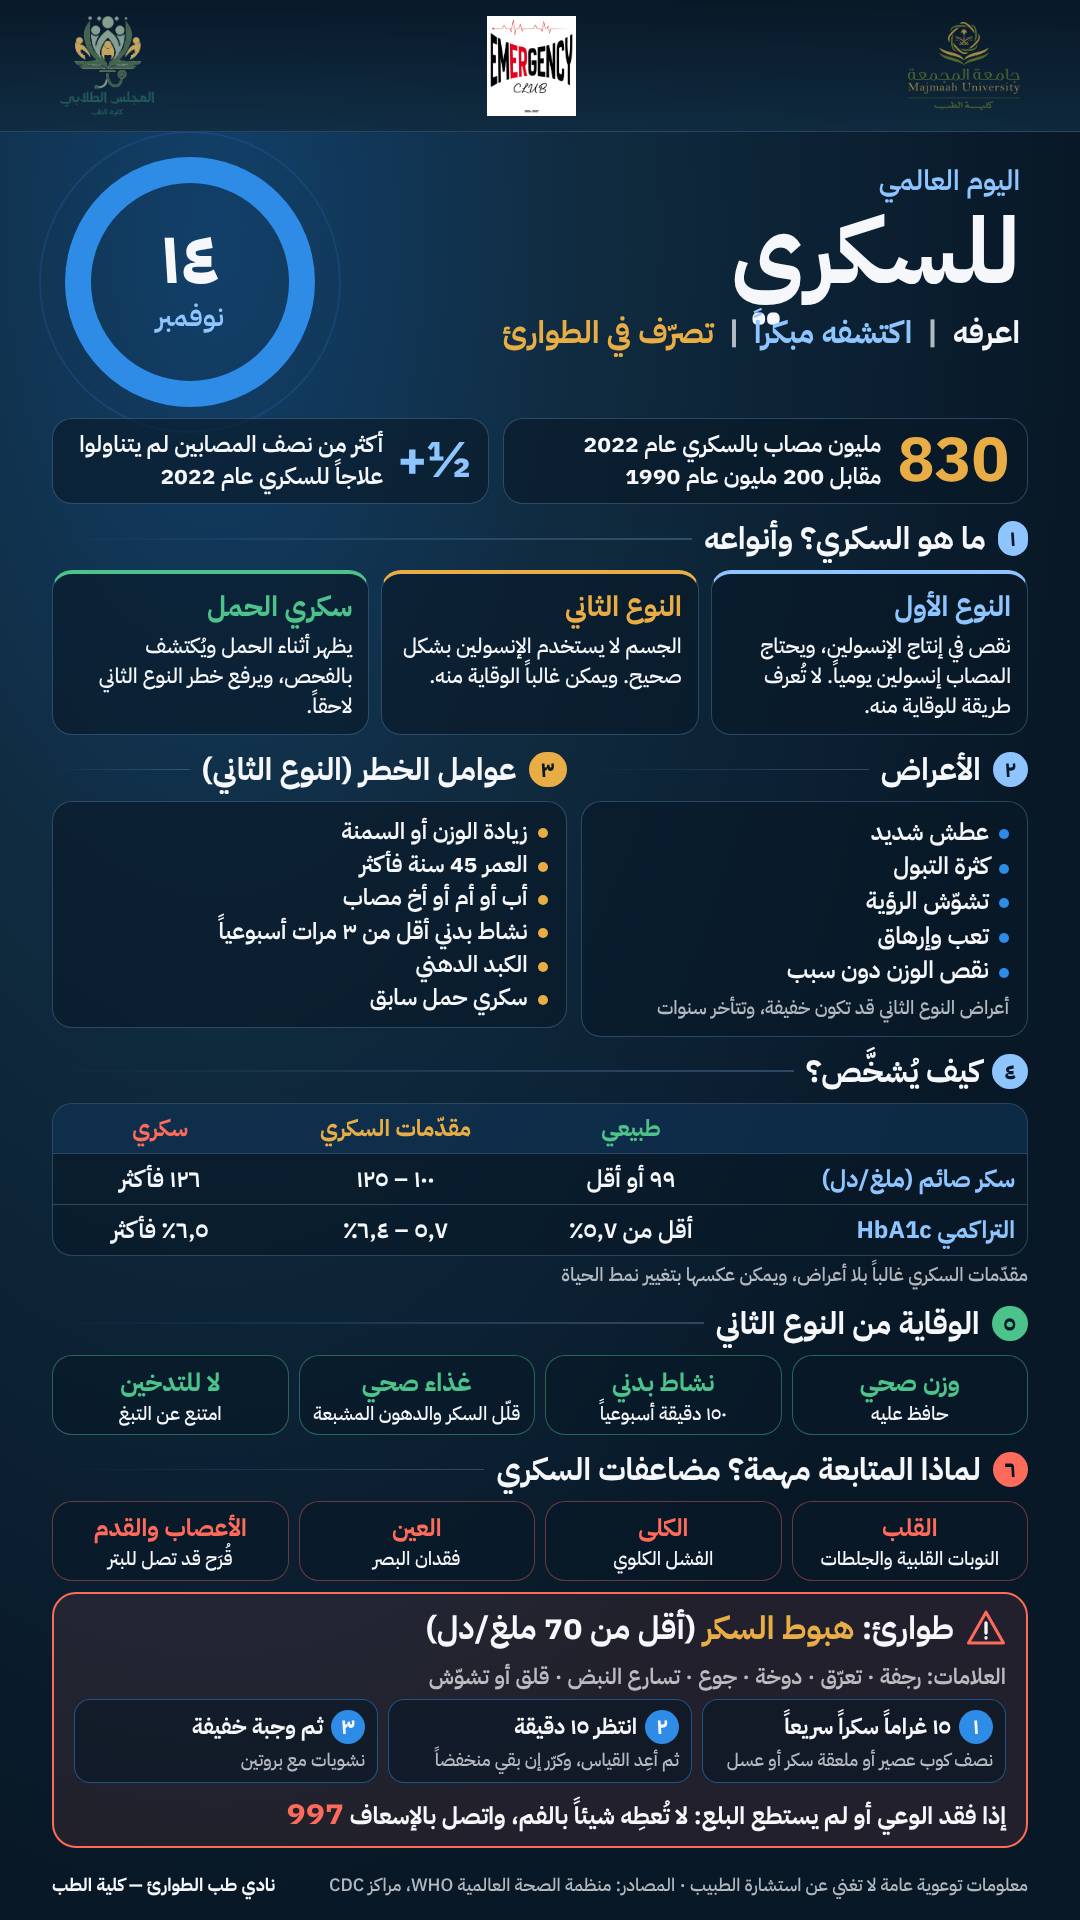
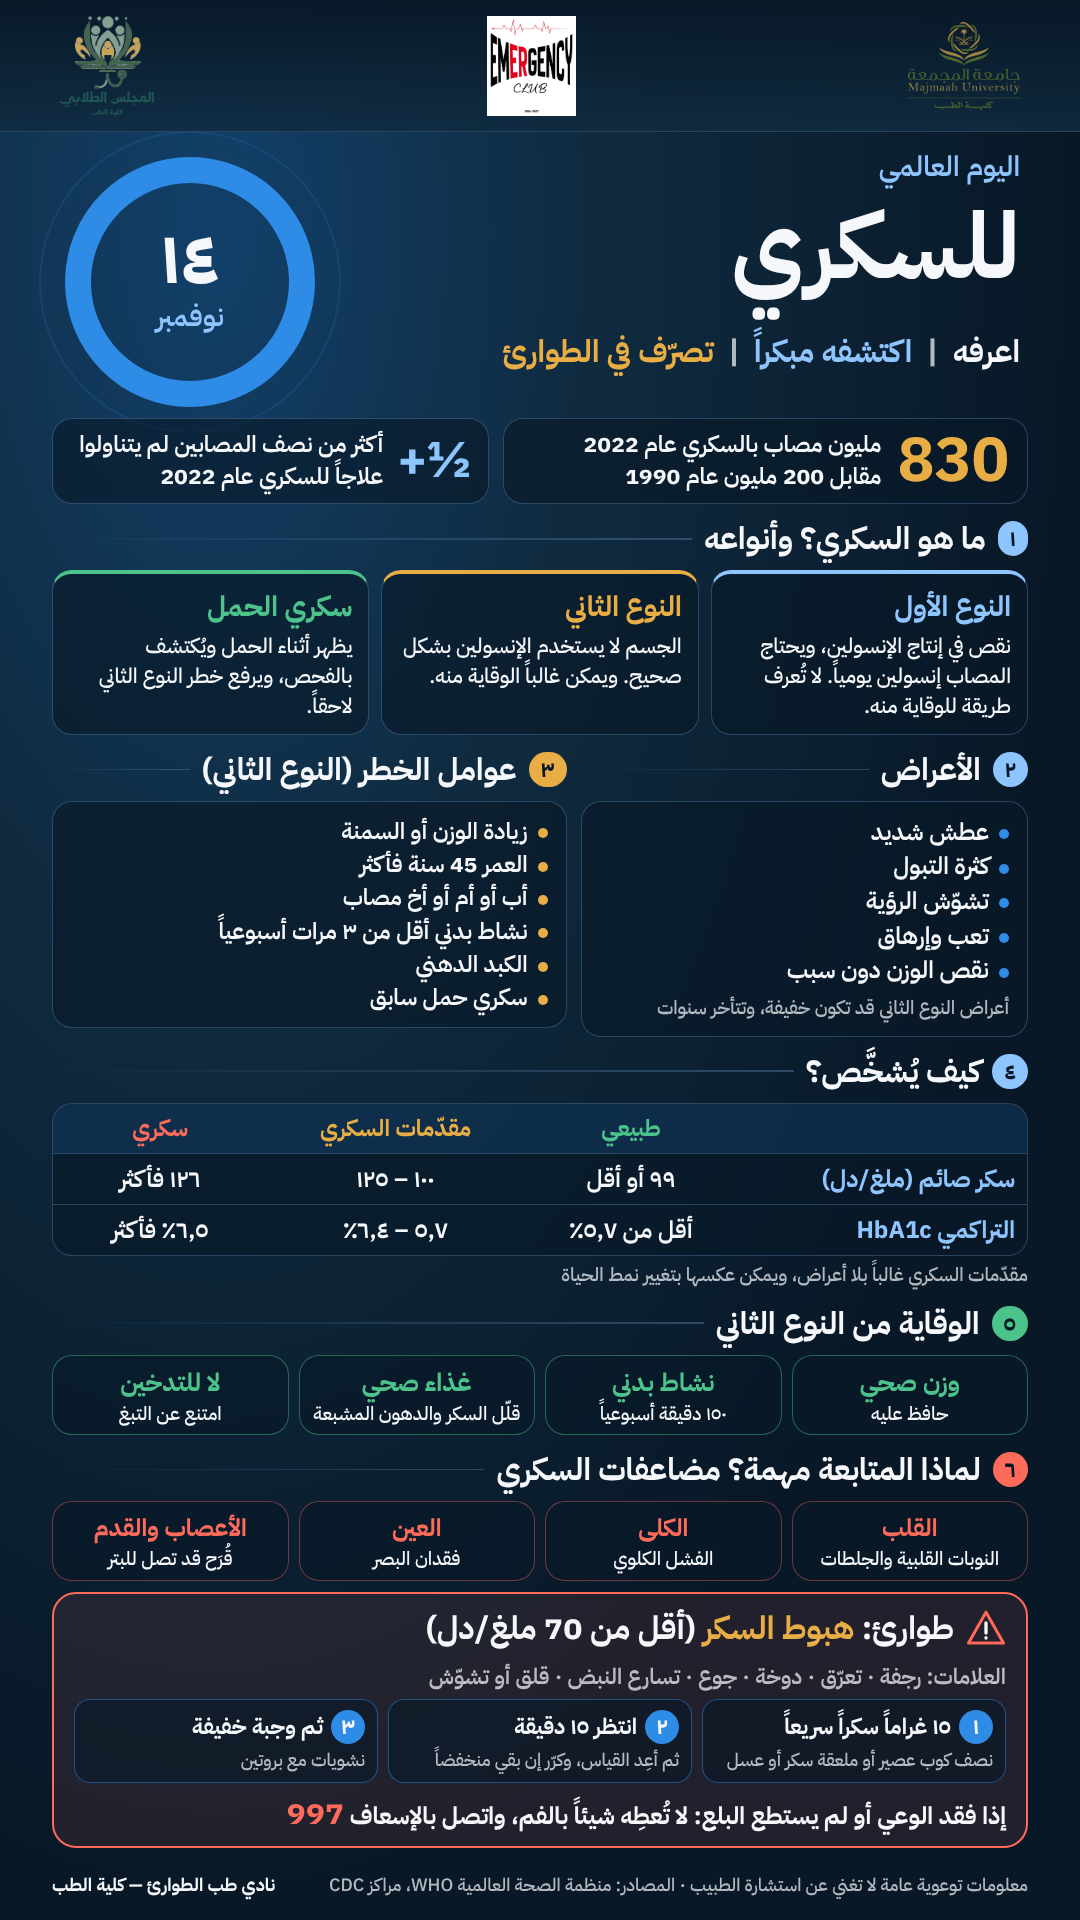
Diabetes infographic: more space between title and tagline (no overlap)
Claude-Session: https://claude.ai/code/session_014MncbDzP2FqcFngMWjAb59

Changed region(s): [[0.4583, 0.0625, 0.9472, 0.1875]]

diff --git a/stroke-awareness-video/src/diabetes/Infographic.tsx b/stroke-awareness-video/src/diabetes/Infographic.tsx
@@ -65,10 +65,10 @@ export const DiabetesInfographic: React.FC = () => (
       <div style={{ fontSize: 74, fontWeight: 700, lineHeight: 1 }}>١٤</div>
       <div style={{ fontSize: 28, fontWeight: 600, color: K.sky }}>نوفمبر</div>
     </div>
-    <div style={{ position: "absolute", top: 160, right: 60, width: 640 }}>
+    <div style={{ position: "absolute", top: 146, right: 60, width: 640 }}>
       <div style={{ fontSize: 28, fontWeight: 600, color: K.sky }}>اليوم العالمي</div>
-      <div style={{ fontSize: 92, fontWeight: 700, lineHeight: 1.1 }}>للسكري</div>
-      <div style={{ fontSize: 31, fontWeight: 700, marginTop: 8, lineHeight: 1.4 }}>
+      <div style={{ fontSize: 92, fontWeight: 700, lineHeight: 1.3 }}>للسكري</div>
+      <div style={{ fontSize: 31, fontWeight: 700, marginTop: 22, lineHeight: 1.4 }}>
         اعرفه<span style={{ color: K.muted, margin: "0 14px" }}>|</span><span style={{ color: K.sky }}>اكتشفه مبكراً</span><span style={{ color: K.muted, margin: "0 14px" }}>|</span><span style={{ color: K.amber }}>تصرّف في الطوارئ</span>
       </div>
     </div>
